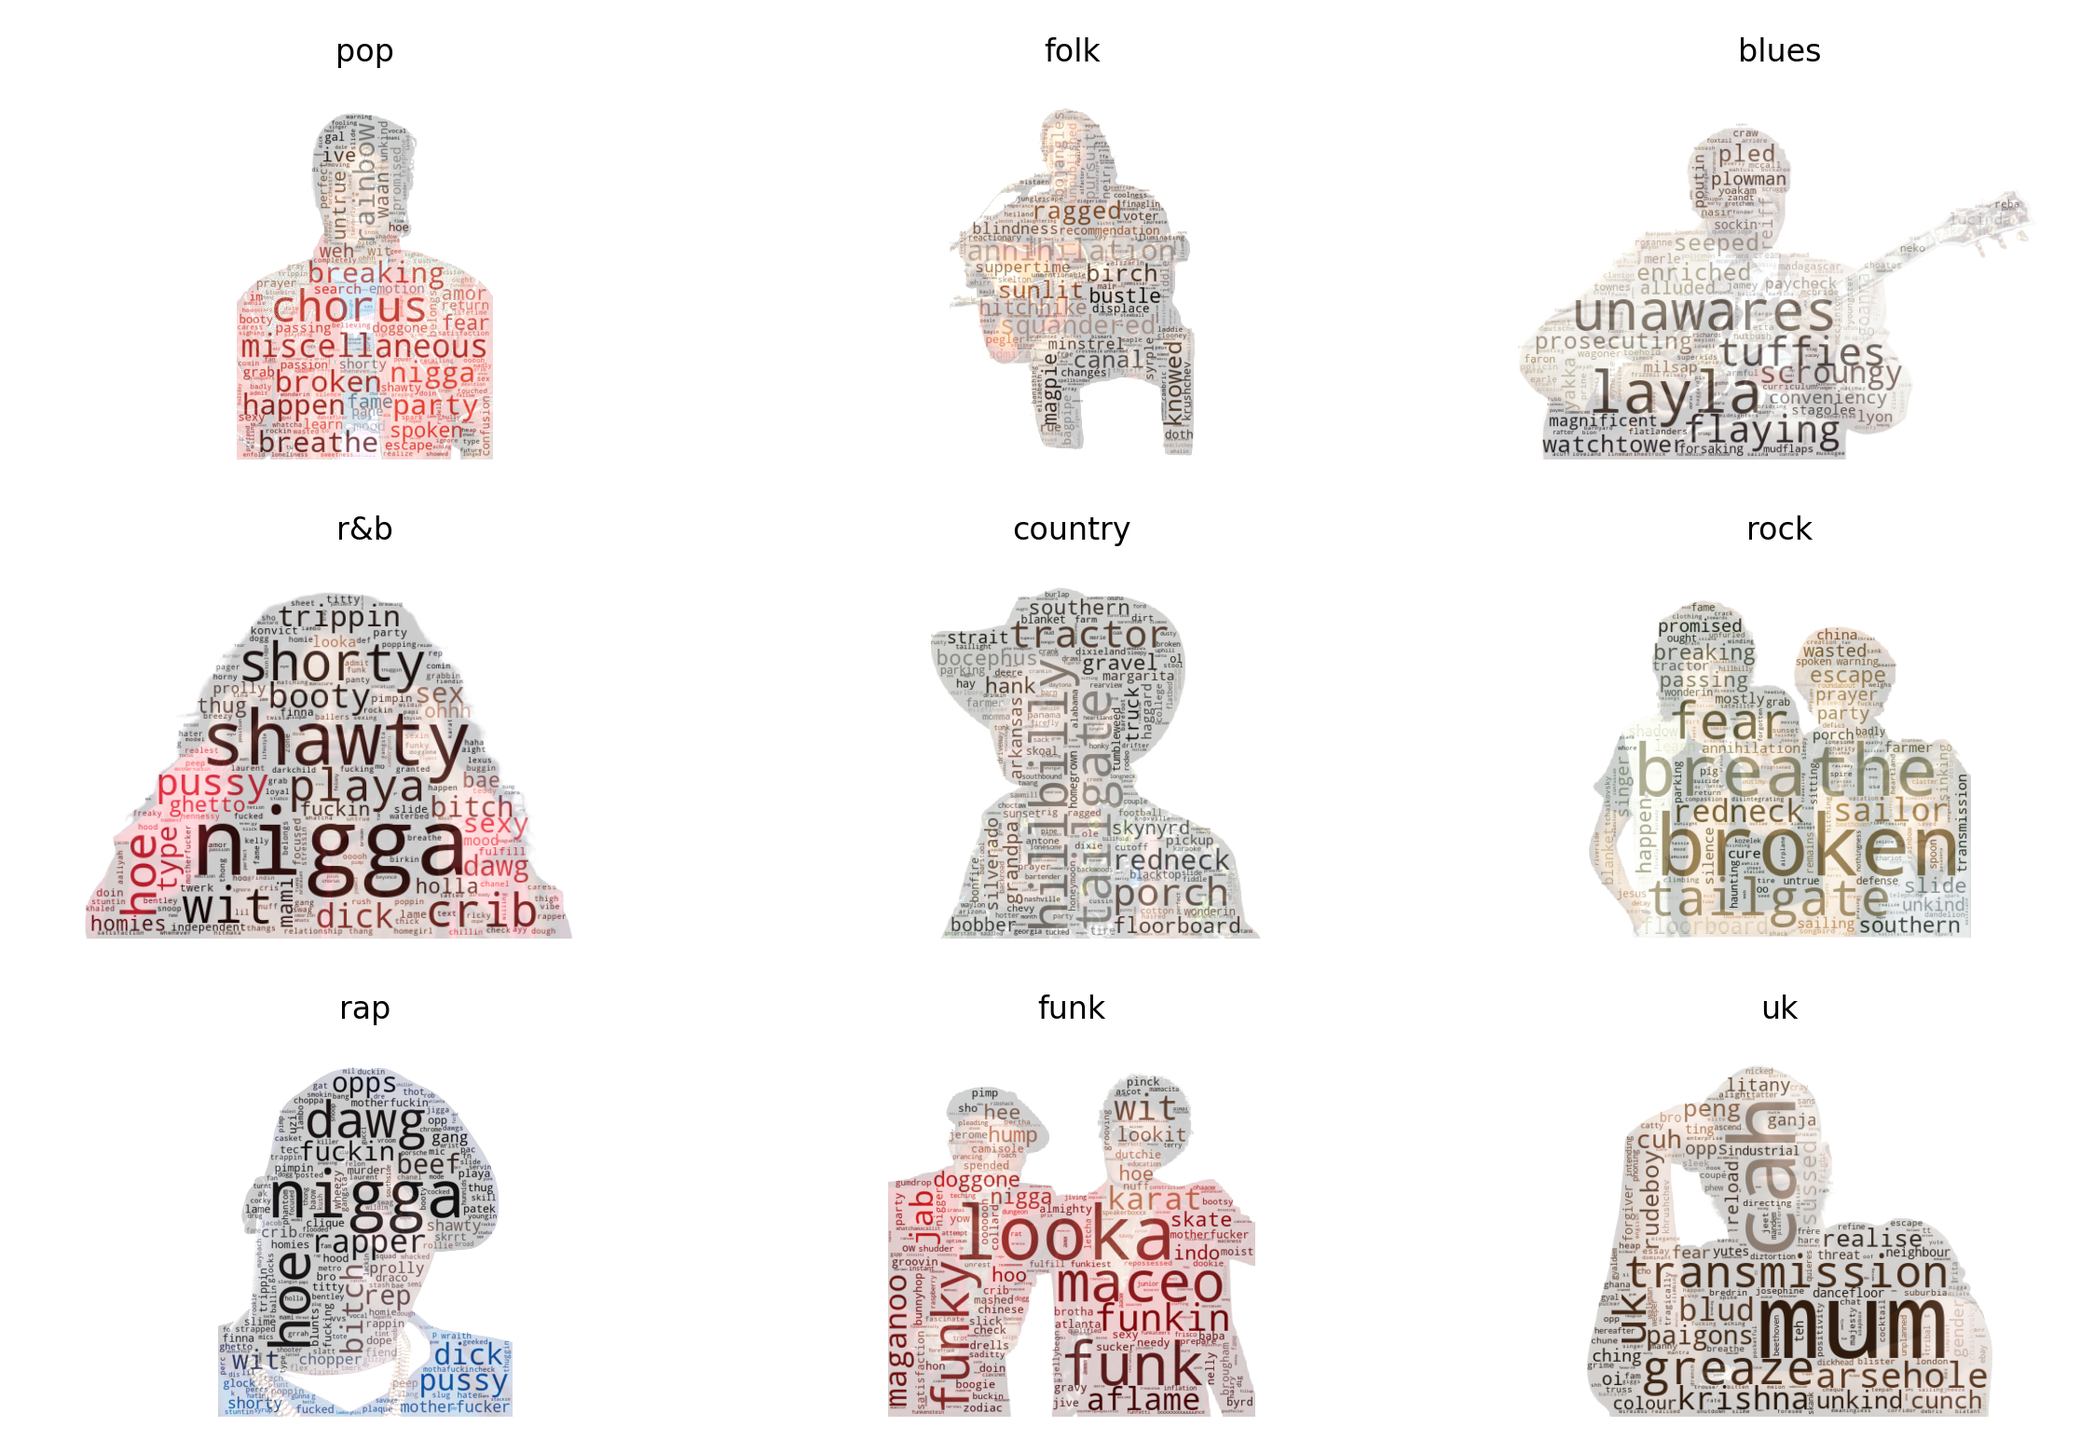
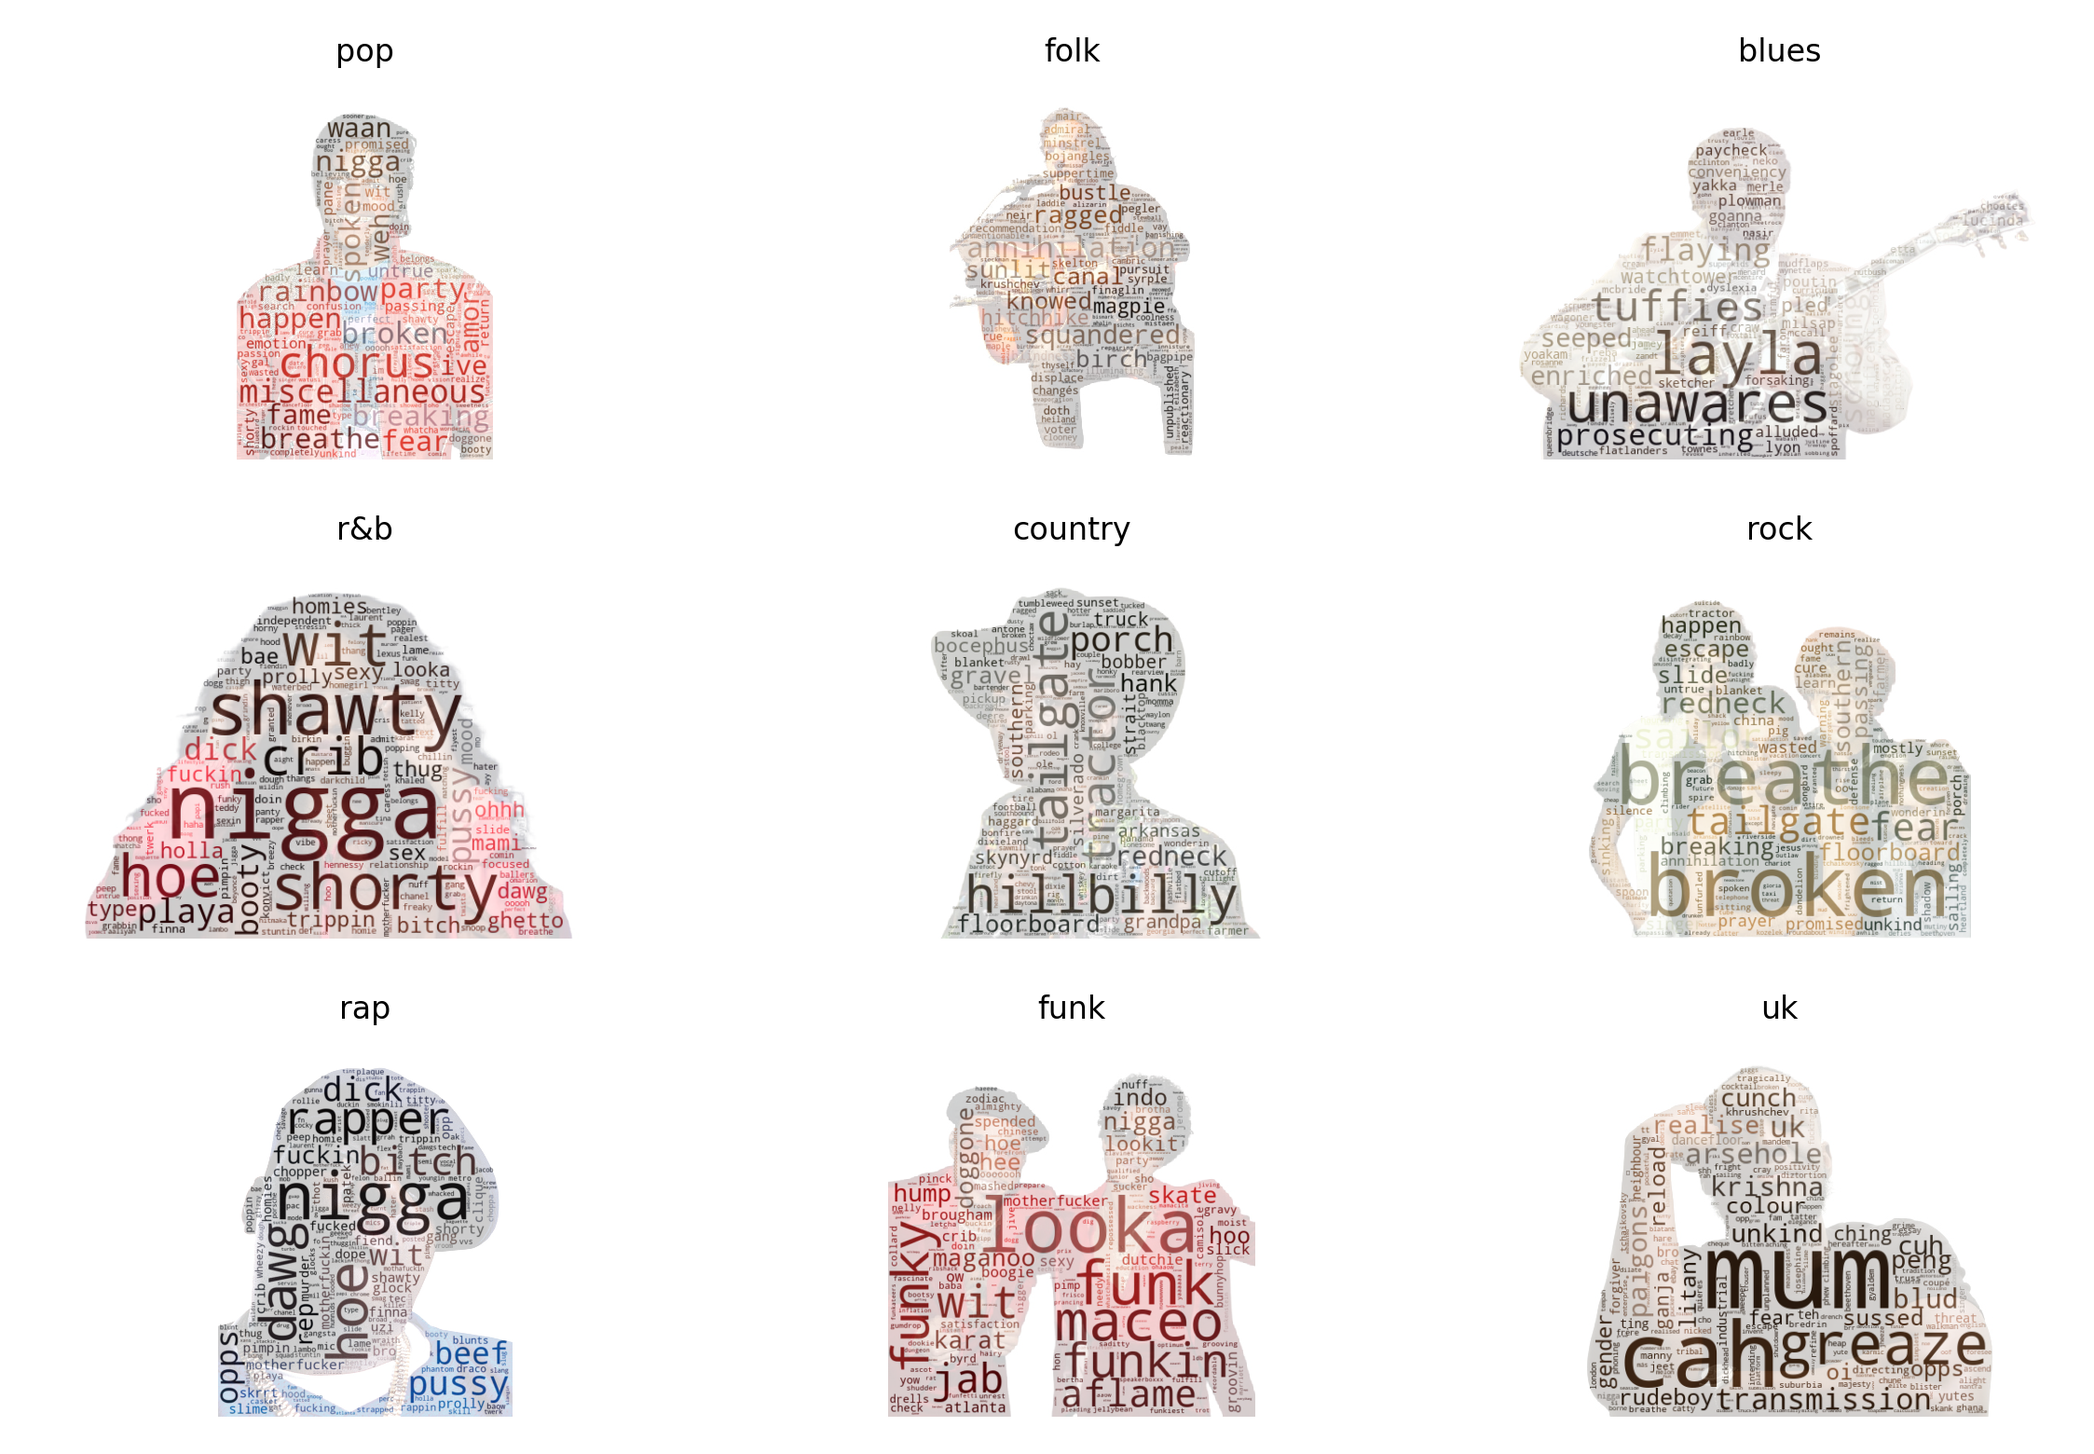
tables and wordclouds together

diff --git a/static/css/style.css b/static/css/style.css
@@ -127,7 +127,7 @@ tr:nth-child(odd) {
   background-color: #f2f2f2;
 }
 
-.column_decade_table table {
+.column_table table {
 	margin-left: 50px;
   border-collapse: collapse;
   border-spacing: 0;

diff --git a/content/text-analysis.md b/content/text-analysis.md
@@ -30,25 +30,34 @@ Some interesting trends we can see:
 {{< tab "Pop" >}}
   ### Pop
   [The pop genre](https://www.wikiwand.com/en/Pop_music) seems to typically be about love, heartbreak and partying. We see words such as "broken", "breaking", "fear" and "return" but also words such as "promised" and "amor". And then of course there are the party words: "chorus", "party", "fame" etc.
+<div class="row">
+  <div class="column_table">
 
-|    |  Word     |      TF   |     Word |   TFIDF  |
-| --:| --:    | --:          |      --:    |        --:|
-|1.  |know   |  0.0100   |        chorus| 0.00009   |
-|2.  |love   |  0.0099   | miscellaneous |0.00007   |
-|3.  |oh     |  0.0077   |        broken| 0.00006   |
-|4.  |like   |  0.0077   |         party |0.00006   |
-|5.  |got    |  0.0072   |      breaking |0.00006   |
-|6.  |time  |   0.0070   |       breathe |0.00005   |
-|7.  |go     |  0.0066   |       rainbow |0.00005   |
-|8.  |one   |   0.0063   |        happen |0.00005   |
-|9.  |na    |   0.0062   |         nigga |0.00005   |
-|10. |see   |   0.0062   |        spoken| 0.00005   |
+|     |  Word |     TF |          Word |   TFIDF |
+|-----|------:|-------:|--------------:|--------:|
+| 1.  |  know | 0.0100 |        chorus | 0.00009 |
+| 2.  |  love | 0.0099 | miscellaneous | 0.00007 |
+| 3.  |    oh | 0.0077 |        broken | 0.00006 |
+| 4.  |  like | 0.0077 |         party | 0.00006 |
+| 5.  |   got | 0.0072 |      breaking | 0.00006 |
+| 6.  |  time | 0.0070 |       breathe | 0.00005 |
+| 7.  |    go | 0.0066 |       rainbow | 0.00005 |
+| 8.  |   one | 0.0063 |        happen | 0.00005 |
+| 9.  |    na | 0.0062 |         nigga | 0.00005 |
+| 10. |   see | 0.0062 |        spoken | 0.00005 |
+  </div>
+  <div class="column">
+    <img src="/images/genres/pop.png">
+  </div>
+</div>
 {{< /tab >}}
 
 
 {{< tab "Folk" >}}
 ### Folk
 [Folk music](https://www.wikiwand.com/en/Folk_music) is often about cultural or national identites. The words seem to suggest some type of wasted opportunity, with words such as "Annihilation", "squandered" and "pursuit" valued highest.
+<div class="row">
+  <div class="column_table">
 
 |     | Word |     TF |         Word |   TFIDF |
 |-----|-----:|-------:|-------------:|--------:|
@@ -62,31 +71,43 @@ Some interesting trends we can see:
 | 8.  |   go | 0.0055 |   suppertime | 0.00018 |
 | 9.  |  say | 0.0052 |      pursuit | 0.00018 |
 | 10. |  day | 0.0052 |    bojangles | 0.00018 |
-
+  </div>
+  <div class="column">
+    <img src="/images/genres/folk.png">
+  </div>
+</div>
 {{< /tab >}}
 
 {{< tab "Blues" >}}
 ### Blues
 [Blues](https://www.wikiwand.com/en/Blues) originates from the deep south of the United States. Important words are "layla", "yakka" and enriched, although all the words seem to have the same importance. This could maybe be explained by the low amount of blues songs - only 149.
+<div class="row">
+  <div class="column_table">
 
-|     | Word |     TF |         Word |   TFIDF |
-|-----|-----:|-------:|-------------:|--------:|
-| 1.  | know | 0.0097 | layla | 0.0.00039 |
-| 2.  |   oh | 0.0096 |   yakka | 0.00035 |
-| 3.  | love | 0.0083 |       enriched  | 0.00035 |
-| 4.  |  got | 0.0082 |       flaying  | 0.00035 |
-| 5.  | baby | 0.0082 |        goanna  | 0.00035 |
-| 6.  | like | 0.0076 |       conveniency  | 0.00035 |
-| 7.  | yeah | 0.0073 |        alluded  | 0.00035 |
-| 8.  |   go | 0.0069 |   pled  | 0.00035 |
-| 9.  | time | 0.0068 |      seeped  | 0.00035 |
-| 10. |   na | 0.0068 |    scroungy  | 0.00035 |
-
+|     | Word |     TF |        Word |    TFIDF |
+|-----|-----:|-------:|------------:|---------:|
+| 1.  | know | 0.0097 |       layla |  0.00039 |
+| 2.  |   oh | 0.0096 |       yakka |  0.00035 |
+| 3.  | love | 0.0083 |    enriched |  0.00035 |
+| 4.  |  got | 0.0082 |     flaying |  0.00035 |
+| 5.  | baby | 0.0082 |      goanna |  0.00035 |
+| 6.  | like | 0.0076 | conveniency |  0.00035 |
+| 7.  | yeah | 0.0073 |     alluded |  0.00035 |
+| 8.  |   go | 0.0069 |        pled |  0.00035 |
+| 9.  | time | 0.0068 |      seeped |  0.00035 |
+| 10. |   na | 0.0068 |    scroungy |  0.00035 |
+  </div>
+  <div class="column">
+    <img src="/images/genres/blues.png">
+  </div>
+</div>
 {{< /tab >}}
 
 {{< tab "R&B" >}}
 ### R&B
 [R&B](https://www.wikiwand.com/da/Rhythm_and_blues) stands for rhytm and blues. It encompasses a lot of genres and today a lot of rap and electronic dance music is classified as R&B as well. The important words are mostly slang terms used in african american communities, which makes sense as it originated in black communities in the 1940s.
+<div class="row">
+  <div class="column_table">
 
 |     | Word |     TF |   Word |   TFIDF |
 |-----|-----:|-------:|-------:|--------:|
@@ -100,14 +121,19 @@ Some interesting trends we can see:
 | 8.  |   na | 0.0070 |  pussy | 0.00011 |
 | 9.  |  get | 0.0067 |  booty | 0.00010 |
 | 10. | time | 0.0066 |   dick | 0.00009 |
-
+  </div>
+  <div class="column">
+    <img src="/images/genres/r&b.png">
+  </div>
+</div>
 {{< /tab >}}
 
 
 {{< tab "Country" >}}
 ### Country
 [Country](https://www.wikiwand.com/en/Country_music) is a genre of music often associated with cowboy western music, living on a farm and driving tractors. The words deemed important reflect this, with "hillbilly" and "tailgate" ranking highest, followed by a bunch of other words often associated with farming.
-
+<div class="row">
+  <div class="column_table">
 
 |     | Word |     TF |       Word |   TFIDF |
 |-----|-----:|-------:|-----------:|--------:|
@@ -121,13 +147,18 @@ Some interesting trends we can see:
 | 8.  |  get | 0.0059 |     gravel | 0.00012 |
 | 9.  |   wa | 0.0059 |   bocephus | 0.00012 |
 | 10. | yeah | 0.0055 |   southern | 0.00012 |
-
+  </div>
+  <div class="column">
+    <img src="/images/genres/country.png">
+  </div>
+</div>
 {{< /tab >}}
 
 {{< tab "Rock" >}}
 ### Rock
 [Rock](https://www.wikiwand.com/en/Rock_music) originated in the 50s and 60s and took the world by storm, and it spawned a myriad of sub-genres. Rock seems to be amix of pop and country, and some other genres as well, as it contains much the same words.
-
+<div class="row">
+  <div class="column_table">
 
 |     | Word |     TF |       Word |   TFIDF |
 |-----|-----:|-------:|-----------:|--------:|
@@ -141,13 +172,18 @@ Some interesting trends we can see:
 | 8.  |  get | 0.0060 |     escape | 0.00005 |
 | 9.  |  one | 0.0060 |   southern | 0.00005 |
 | 10. |  say | 0.0058 | floorboard | 0.00005 |
-
+  </div>
+  <div class="column">
+    <img src="/images/genres/rock.png">
+  </div>
+</div>
 {{< /tab >}}
 
 {{< tab "Rap" >}}
 ### Rap
 [Rap](https://www.wikiwand.com/en/Hip_hop_music) is a music genre primarily developed by urban black communities in the United States. It has a certain vocal rhythm, almost more like a spoken song, compared to more traditional genres of music. The tone of rap is harsher than other genres, with a lot of derogatory names for women being a mainstay of the genre. Furthermore, often rappers are said to have "beef" with one-another, which is reflected in their songs.
-
+<div class="row">
+  <div class="column_table">
 
 |     | Word |     TF |   Word |   TFIDF |
 |-----|-----:|-------:|-------:|--------:|
@@ -161,13 +197,18 @@ Some interesting trends we can see:
 | 8.  | back | 0.0038 |   opps | 0.00024 |
 | 9.  | make | 0.0038 |   beef | 0.00023 |
 | 10. |  see | 0.0038 |    wit | 0.00022 |
-
+  </div>
+  <div class="column">
+    <img src="/images/genres/rap.png">
+  </div>
+</div>
 {{< /tab >}}
 
 {{< tab "Funk" >}}
 ### Funk
 [Funk](https://www.wikiwand.com/en/Funk) is a music genre that originated in the 1960s. The TFIDF seems to suggest that funky musicians simply reallo love to funk it up, with top words being: "funk", "funky" and "funkin".
-
+<div class="row">
+  <div class="column_table">
 
 |     | Word |     TF |    Word |   TFIDF |
 |-----|-----:|-------:|--------:|--------:|
@@ -181,13 +222,18 @@ Some interesting trends we can see:
 | 8.  | like | 0.0073 |  aflame | 0.00012 |
 | 9.  |   na | 0.0072 | maganoo | 0.00012 |
 | 10. | time | 0.0069 |   karat | 0.00012 |
-
+  </div>
+  <div class="column">
+    <img src="/images/genres/funk.png">
+  </div>
+</div>
 {{< /tab >}}
 
 {{< tab "UK" >}}
 ### UK
 [UK](https://www.wikiwand.com/en/Grime_(music_genre)), or "grime" as it is often called, originated in the 2000s. It is primarily developed by british communities and as expected the most characteristic words for the genre are also british slang and ad-libs.
-
+<div class="row">
+  <div class="column_table">
 
 |     |  Word |     TF |         Word |   TFIDF |
 |-----|------:|-------:|-------------:|--------:|
@@ -201,7 +247,11 @@ Some interesting trends we can see:
 | 8.  |   see | 0.0057 |      paigons | 0.00012 |
 | 9.  | never | 0.0057 |      krishna | 0.00012 |
 | 10. |    ca | 0.0055 |          cuh | 0.00011 |
-
+  </div>
+  <div class="column">
+    <img src="/images/genres/uk.png">
+  </div>
+</div>
 {{< /tab >}}
 
 {{< /tabs >}}
@@ -254,20 +304,20 @@ To take a look at the lyrics used through the years we split our corpus by relea
 [The 1960s](https://www.wikiwand.com/en/1960s_in_music) were quite revolutionary for music. Rock was becoming more evolved, and artists were beginning to release more albums than singles. 
 Looking at the defining words of the decade, a lot of people seemed to enjoy partaking in the [watusi dance](https://www.wikiwand.com/en/Watusi_(dance)). Furthermore, songs were affectionate, using words such as "tenderly" and "fickle". 
 <div class="row">
-  <div class="column_decade_table">
+  <div class="column_table">
 
-|     |     Word |   TFIDF |
-|-----|---------:|--------:|
-| 1.  |   watusi | 0.00011 |
-| 2.  | tenderly | 0.00009 |
-| 3.  |    looka | 0.00007 |
-| 4.  |   sighin | 0.00007 |
-| 5.  |    hully | 0.00006 |
-| 6.  |    rovin | 0.00006 |
-| 7.  |   billow | 0.00006 |
-| 8.  |   fickle | 0.00005 |
-| 9.  |    twine | 0.00005 |
-| 10. |  doggone | 0.00005 |
+|     | Word |     TF |     Word |   TFIDF |
+|-----|-----:|-------:|---------:|--------:|
+| 1.  | love | 0.0122 |   watusi | 0.00011 |
+| 2.  | know | 0.0103 | tenderly | 0.00009 |
+| 3.  |   oh | 0.0083 |    looka | 0.00007 |
+| 4.  |   go | 0.0069 |   sighin | 0.00007 |
+| 5.  |  got | 0.0069 |    hully | 0.00006 |
+| 6.  | like | 0.0068 |    rovin | 0.00006 |
+| 7.  | come | 0.0067 |   billow | 0.00006 |
+| 8.  |  one | 0.0066 |   fickle | 0.00005 |
+| 9.  | baby | 0.0065 |    twine | 0.00005 |
+| 10. | time | 0.0064 |  doggone | 0.00005 |
   </div>
   <div class="column">
     <img src="/images/decades/1960.png">
@@ -279,6 +329,8 @@ Looking at the defining words of the decade, a lot of people seemed to enjoy par
 {{< tab "1970" >}}
 ### 1970
 [The 1970s](https://www.wikiwand.com/en/1970s_in_music) are probably best known for the rise and popularity of disco. If you simply look at the TF-IDF scores of the lyrics, you might believe that "nigger" was the most defining word of the decade. However, 5 different songs in 1970 had the word appear in them (in mostly provoking context), and it does not appear in any other decade. Another interesting word is "doggone", whose modern counterpart you might be more familiar with - "damn".
+<div class="row">
+  <div class="column_table">
 
 |     | Word |     TF |       Word |   TFIDF |
 |-----|-----:|-------:|-----------:|--------:|
@@ -292,12 +344,18 @@ Looking at the defining words of the decade, a lot of people seemed to enjoy par
 | 8.  | come | 0.0063 |   softness | 0.00004 |
 | 9.  |   go | 0.0062 |    crowing | 0.00004 |
 | 10. |   na | 0.0061 |   marianne | 0.00004 |
-
+  </div>
+  <div class="column">
+    <img src="/images/decades/1970.png">
+  </div>
+</div>
 {{< /tab >}}
 
 {{< tab "1980" >}}
 ### 1980
 [The 1980s](https://www.wikiwand.com/en/1980s_in_music) had the rise electronic dance music and modern rock. Most of the important words from this decade appear quite normal at a glance. Apparently musicians really liked jellybeans in the 80s!
+<div class="row">
+  <div class="column_table">
 
 |     | Word |     TF |          Word |   TFIDF |
 |-----|-----:|-------:|--------------:|--------:|
@@ -311,13 +369,18 @@ Looking at the defining words of the decade, a lot of people seemed to enjoy par
 | 8.  |   go | 0.0064 |      outgrown | 0.00004 |
 | 9.  |  say | 0.0063 |       frantic | 0.00004 |
 | 10. |  get | 0.0063 |           oho | 0.00003 |
-
-
+  </div>
+  <div class="column">
+    <img src="/images/decades/1980.png">
+  </div>
+</div>
 {{< /tab >}}
 
 {{< tab "1990" >}}
 ### 1990
 [The 1990s](https://www.wikiwand.com/en/1990s_in_music) truly saw the rise in hip hop/rap. A lot of the words here are slang terms, used mainly in rap.
+<div class="row">
+  <div class="column_table">
 
 |     | Word |     TF |        Word |   TFIDF |
 |-----|-----:|-------:|------------:|--------:|
@@ -331,12 +394,18 @@ Looking at the defining words of the decade, a lot of people seemed to enjoy par
 | 8.  |  see | 0.0053 | representin | 0.00006 |
 | 9.  |   na | 0.0053 |     ballers | 0.00006 |
 | 10. |   go | 0.0052 |        rump | 0.00006 |
-
+  </div>
+  <div class="column">
+    <img src="/images/decades/1990.png">
+  </div>
+</div>
 {{< /tab >}}
 
 {{< tab "2000" >}}
 ### 2000
 [The 2000s](https://www.wikiwand.com/en/2000s_in_music) were truly a mixed year. All genres saw a healthy consumption, but particularly teen pop and rap got increased participation. This is the decade where slang truly started taking over the lyrics of the music we listen to. Popular words such as ["luda" and "cris"](https://www.wikiwand.com/en/Ludacris) dominate, as well as "swag", "shorty" and its variation "shawty".
+<div class="row">
+  <div class="column_table">
 
 |     | Word |     TF |      Word |   TFIDF |
 |-----|-----:|-------:|----------:|--------:|
@@ -350,12 +419,18 @@ Looking at the defining words of the decade, a lot of people seemed to enjoy par
 | 8.  |   na | 0.0052 |   konvict | 0.00008 |
 | 9.  | yeah | 0.0052 |       dro | 0.00007 |
 | 10. |  one | 0.0051 |     titty | 0.00007 |
-
+  </div>
+  <div class="column">
+    <img src="/images/decades/2000.png">
+  </div>
+</div>
 {{< /tab >}}
 
 {{< tab "2010" >}}
 ### 2010
 [The 2010s](https://www.wikiwand.com/en/2010s_in_music) had an increased popularity in a hushed style of vocal delivery (dubbed "whisperpop") as well as a steep rise in traditional instruments: Ukuleles, banjos, mandolins and bongos from indie-rock bands. Most notably, however, is probably the growth of hip hop, dominating most charts. Ad-libs played a huge role in the 10s, and we saw the introdcution of "instagram" to the vocabulary of the artists.
+<div class="row">
+  <div class="column_table">
 
 |     | Word |     TF |      Word |   TFIDF |
 |-----|-----:|-------:|----------:|--------:|
@@ -369,12 +444,18 @@ Looking at the defining words of the decade, a lot of people seemed to enjoy par
 | 8.  | love | 0.0046 |   maybach | 0.00013 |
 | 9.  | time | 0.0045 |    hunnid | 0.00012 |
 | 10. | make | 0.0044 |       bae | 0.00012 |
-
+  </div>
+  <div class="column">
+    <img src="/images/decades/2010.png">
+  </div>
+</div>
 {{< /tab >}}
 
 {{< tab "2020" >}}
 ### 2020
 Although [the 2020s](https://www.wikiwand.com/en/2020s_in_music) are still young, a clear trend in ad-libbing can clearly be seen. The words scoring highest TF-IDF scores are all ad-libs, and they have become a huge part of our daily listenings.
+<div class="row">
+  <div class="column_table">
 
 |     | Word |     TF |   Word |   TFIDF |
 |-----|-----:|-------:|-------:|--------:|
@@ -388,7 +469,11 @@ Although [the 2020s](https://www.wikiwand.com/en/2020s_in_music) are still young
 | 8.  |   wa | 0.0045 | wraith | 0.00030 |
 | 9.  |   ca | 0.0042 |  draco | 0.00030 |
 | 10. |  one | 0.0042 | hunnid | 0.00029 |
-
+  </div>
+  <div class="column">
+    <img src="/images/decades/2020.png">
+  </div>
+</div>
 {{< /tab >}}
 {{< /tabs >}}
 
